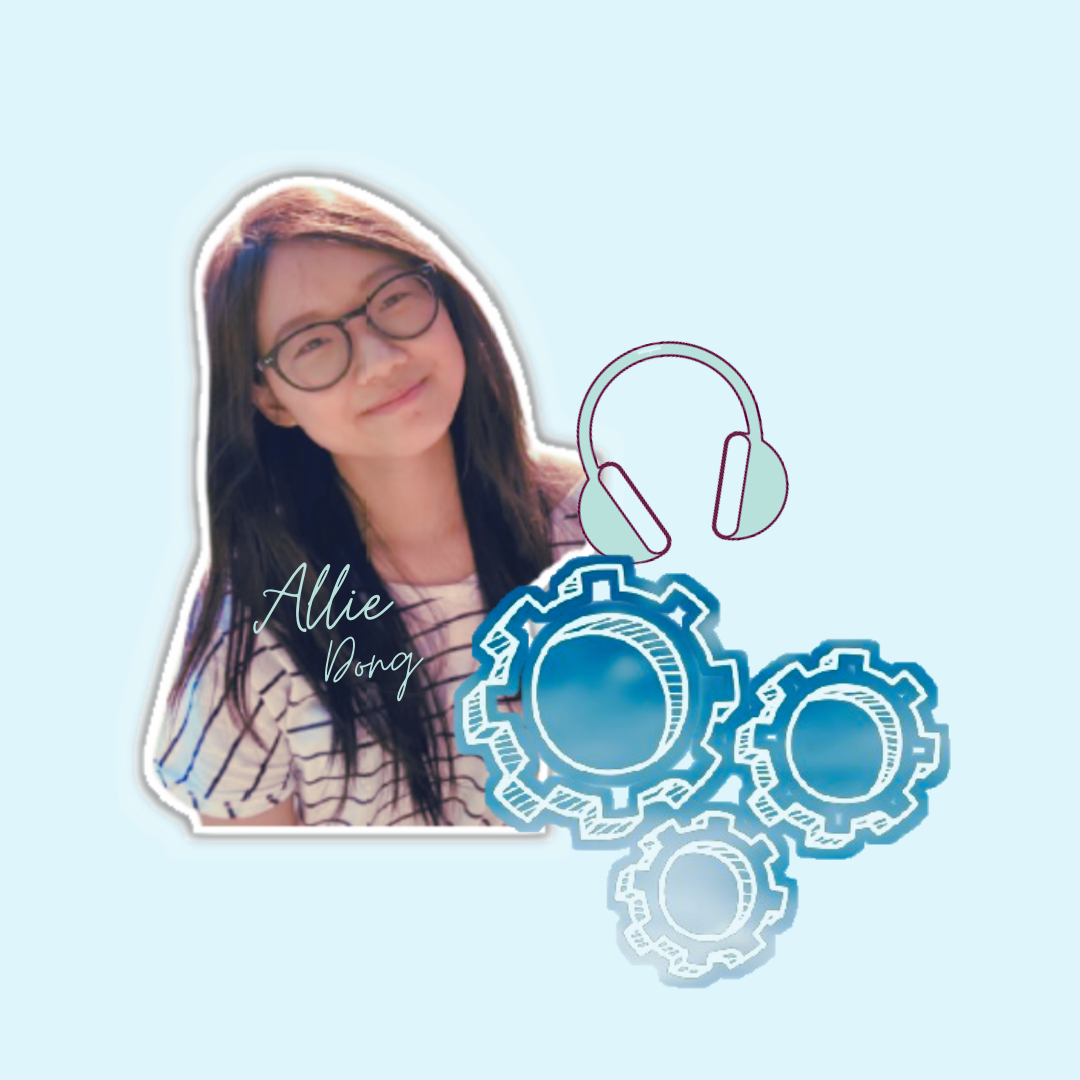
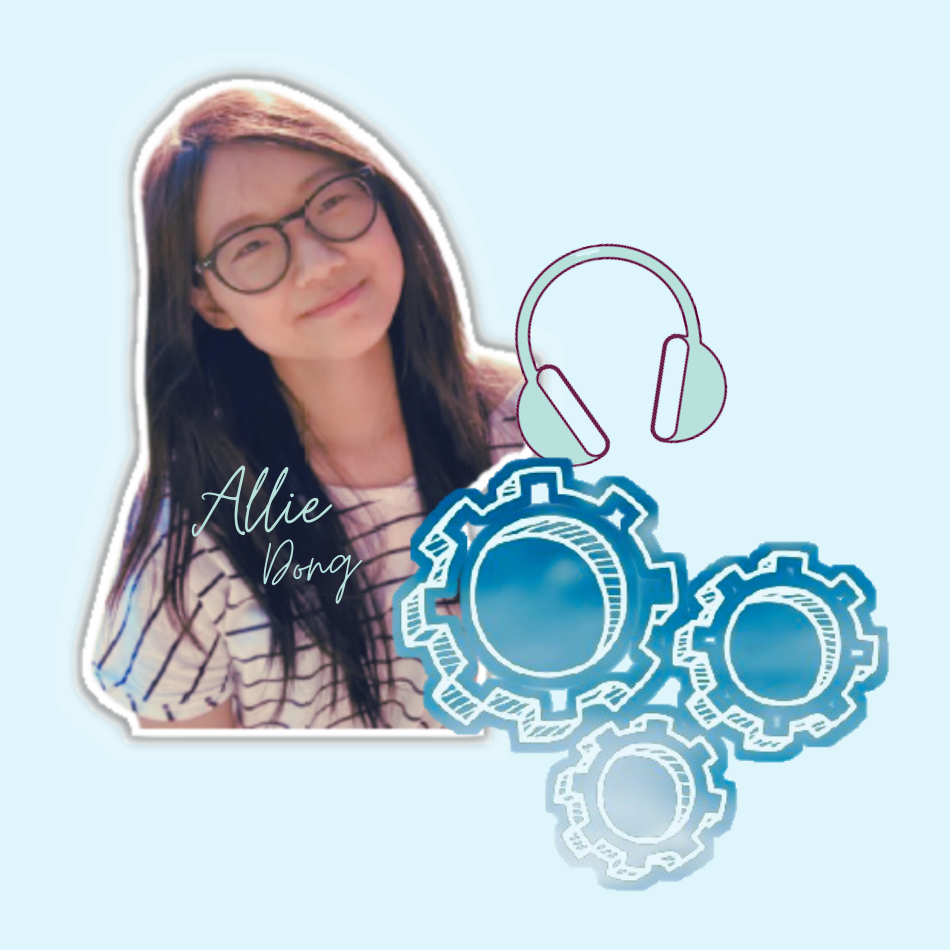
Fixed homepage finally!

Changed region(s): [[0.0611, 0.0611, 0.9463, 0.9463]]

diff --git a/src/components/formats/Home.js b/src/components/formats/Home.js
@@ -2,6 +2,8 @@ import React from "react";
 import { Row, Col, Image, Container } from "react-bootstrap";
 import Typewriter from "typewriter-effect";
 import AllieHomeImage from "../../images/AllieHomeImage.png";
+import Button from "./Button.js";
+import "../styles/Button.css";
 import "../styles/Home.css";
 
 // xs={8} md={4}
@@ -10,13 +12,13 @@ import "../styles/Home.css";
 function Home() {
   return (
     <Container fluid className="home-page-container">
-      <Row className="home-as-row">
-        <Col xs={8} md={12}>
+      <div className="home-as-row">
+        <div style={{width: '100%'}}>
           <div className="hello-message">
-            <h2>Hi there! I'm Allie :)</h2>
+            <h2>Hi there! I'm Allie </h2>
             <br></br>
-            <h6>Currently pursuing: </h6>
-            <div className="pursuance-typed">
+            <h6>Currently a student pursuing: </h6>
+            <div className="program-typed">
               <Typewriter
                 onInit={(typewriter) => {
                   typewriter
@@ -27,29 +29,29 @@ function Home() {
               />
             </div>
             <div className="home-greeting">
-              Welcome and thanks for visiting!
+              Welcome, and thanks for visiting!
             </div>
             <Row className="resume-button">
-              <button
+              <Button
                 className="resume-button-homepage"
-                buttonStyle="btn--outline"
-                buttonSize="btn--large"
-                href="https://drive.google.com/file/d/1GV-zUtW9k5XxJHCxev_w5ePexCbZqa7x/view?usp=sharing"
+                buttonStyle="btn--primary"
+                resume="https://drive.google.com/file/d/1GV-zUtW9k5XxJHCxev_w5ePexCbZqa7x/view?usp=sharing"
                 target="_blank"
               >
                 Resume
-              </button>
+              </Button>
             </Row>
           </div>
-        </Col>
-        <Col xs={4} md={8}>
+        </div>
+        <div style={{textAlign: 'center'}}>
           <Image
             id="AlliePicture1"
             src={AllieHomeImage}
             alt="Personal profile design"
+            style={{marginRight: '60px'}}
           />
-        </Col>
-      </Row>
+        </div>
+      </div>
     </Container>
   );
 }

diff --git a/src/components/formats/Button.js b/src/components/formats/Button.js
@@ -1,37 +1,10 @@
-import React from 'react';
-import '../styles/Button.css';
-import { Link } from 'react-router-dom';
-import "../styles/Button.css"
+import React from "react";
+import "../styles/Button.css";
+import { Link } from "react-router-dom";
+import "../styles/Button.css";
 
-const STYLES = ['btn--primary', 'btn--outline'];
-
-const SIZES = ['btn--medium', 'btn--large'];
-
-const Button = ({
-  children, 
-  type, 
-  onClick, 
-  buttonStyle, 
-  buttonSize
-}) => {
-  const checkButtonStyle = STYLES.includes(buttonStyle) 
-  ? buttonStyle 
-  : STYLES[0];
-
-  const checkButtonSize = SIZES.includes(buttonSize) 
-  ? buttonSize 
-  : SIZES[0]
-
-  return (
-    <Link to='/contact' className='btn-mobile'>
-      <button
-        classname={`btn ${checkButtonStyle} ${checkButtonSize}`}
-        onClick={onClick}
-        type={type}
-      >
-        {children}
-      </button>
-    </Link>
-  )
+const Button = ({ children, type, onClick, buttonStyle, buttonSize, resume }) => {
+  return <button className="btn--primary" onClick={()=> {window.open(resume)}}>{children}</button>;
 };
-export default Button
+
+export default Button;

diff --git a/src/App.js b/src/App.js
@@ -1,19 +1,22 @@
-import React from 'react';
-import {BrowserRouter as Router, Switch, Route} from 'react-router-dom';
+import React from "react";
+import { BrowserRouter as Router, Switch, Route } from "react-router-dom";
+import "./components/styles/Button.css";
+import Home from "./components/formats/Home";
 
-import Navbar from './components/formats/Navbar';
-import MainSite from './components/Pages/MainSite';
-import Error404 from './components/Pages/Error404';
-import './App.css';
+import Navbar from "./components/formats/Navbar";
+import MainSite from "./components/Pages/MainSite";
+import Error404 from "./components/Pages/Error404";
+import "./App.css";
 
-function App () {
+function App() {
   return (
     <>
       <Router>
         <Navbar />
+        <Home />
         <Switch>
-          <Route path='/' exact component={MainSite}/>
-          <Route path='/*' element={<Error404 />} />
+          <Route path="/" exact component={MainSite} />
+          <Route path="/*" element={<Error404 />} />
         </Switch>
       </Router>
     </>

diff --git a/src/components/styles/Home.css b/src/components/styles/Home.css
@@ -2,28 +2,28 @@
 
 .home-page-container {
   background-color: #ddf5fb;
-  padding-left: 20px;
+  padding-left: 25px;
   padding-right: 0px;
+  height: 95vh
 }
 
-/* ddf5fb */
-
 .home-as-row {
-  padding-top: 180px;
-  padding-bottom: 0px;
+  padding-top: 80px;
+  display: flex;
+  justify-content: space-between;
 }
 
 /* Style Left Column of Header */
 .hello-message {
   margin-left: 15%;
   font-size: 35px;
-  font-weight: 700;
+  font-weight: 550;
   color: #102b42;
   font-family: "lato";
-  line-height: 45pt;
+  line-height: 40pt;
 }
 
-.pursuance-typed {
+.program-typed {
   text-align: left;
   margin-left: 7.5%;
   margin-top: 20px;
@@ -53,10 +53,17 @@
 /* Style Right Column of Home */
 
 #AlliePicture1 {
-  width: 40vw;
-  border-radius: 150px;
-  margin-right: 100px;
+  width: 37vw;
   padding-left: 20px;
+}
+
+@media screen and (max-width: 873px) {
+  .home-as-row {
+    flex-direction: column-reverse;
+  }
+  #AlliePicture1 {
+    width: 50vw;
+  }
 }
 
 /* @media screen and (max-width: 1400px) {

diff --git a/src/components/styles/Button.css b/src/components/styles/Button.css
@@ -1,6 +1,3 @@
-:root {
-  --primary: #f1f5f8;
-}
 
 .btn {
   padding: 8px 20px;
@@ -11,31 +8,21 @@
 }
 
 .btn--primary {
-  background-color: var(--primary);
+  background-color: #f1f5f8;
   color: #102b42;
-  border: 1px solid var(--primary);
+  border: 2px solid #102b42;
+  padding: 12px 26px;
+  border-radius: 5px;
+  font-size: 20px;
+  margin-top: 5vh;
 }
 
 .btn--outline {
-  background-color: transparent;
+  padding: 8px 20px;
+}
+
+.btn--primary:hover {
+  background: #102b42;
   color: #f1f5f8;
-  padding: 8px 20px;
-  border: 1px solid var(--primary);
-  transition: all 0.3s ease-out;
-}
-
-.btn--medium {
-  padding: 8px 20px;
-  font-size: 20px;
-}
-
-.btn--large {
-  padding: 12px 26px;
-  font-size: 20px;
-}
-
-.btn--medium:hover, .btn--large:hover {
-  background: #f1f5f8;
-  color: #102b42;
-  transition: all 0.3s ease-out;
+  transition: all 0.2s ease-out;
 }

diff --git a/src/components/Pages/MainSite.js b/src/components/Pages/MainSite.js
@@ -1,13 +1,15 @@
-import React from 'react'
-import Home from '../formats/Home';
-import "../styles/Home.css"
-import '../styles/Button.css';
+import React from "react";
+import Home from "../formats/Home.js";
+import Navbar from "../formats/Navbar";
+import "../styles/Home.css";
+import "../styles/Button.css";
 
 function MainSite() {
   return (
-    <div>
+    <>
+      <Navbar />
       <Home />
-    </div>
+    </>
   );
 }
 
